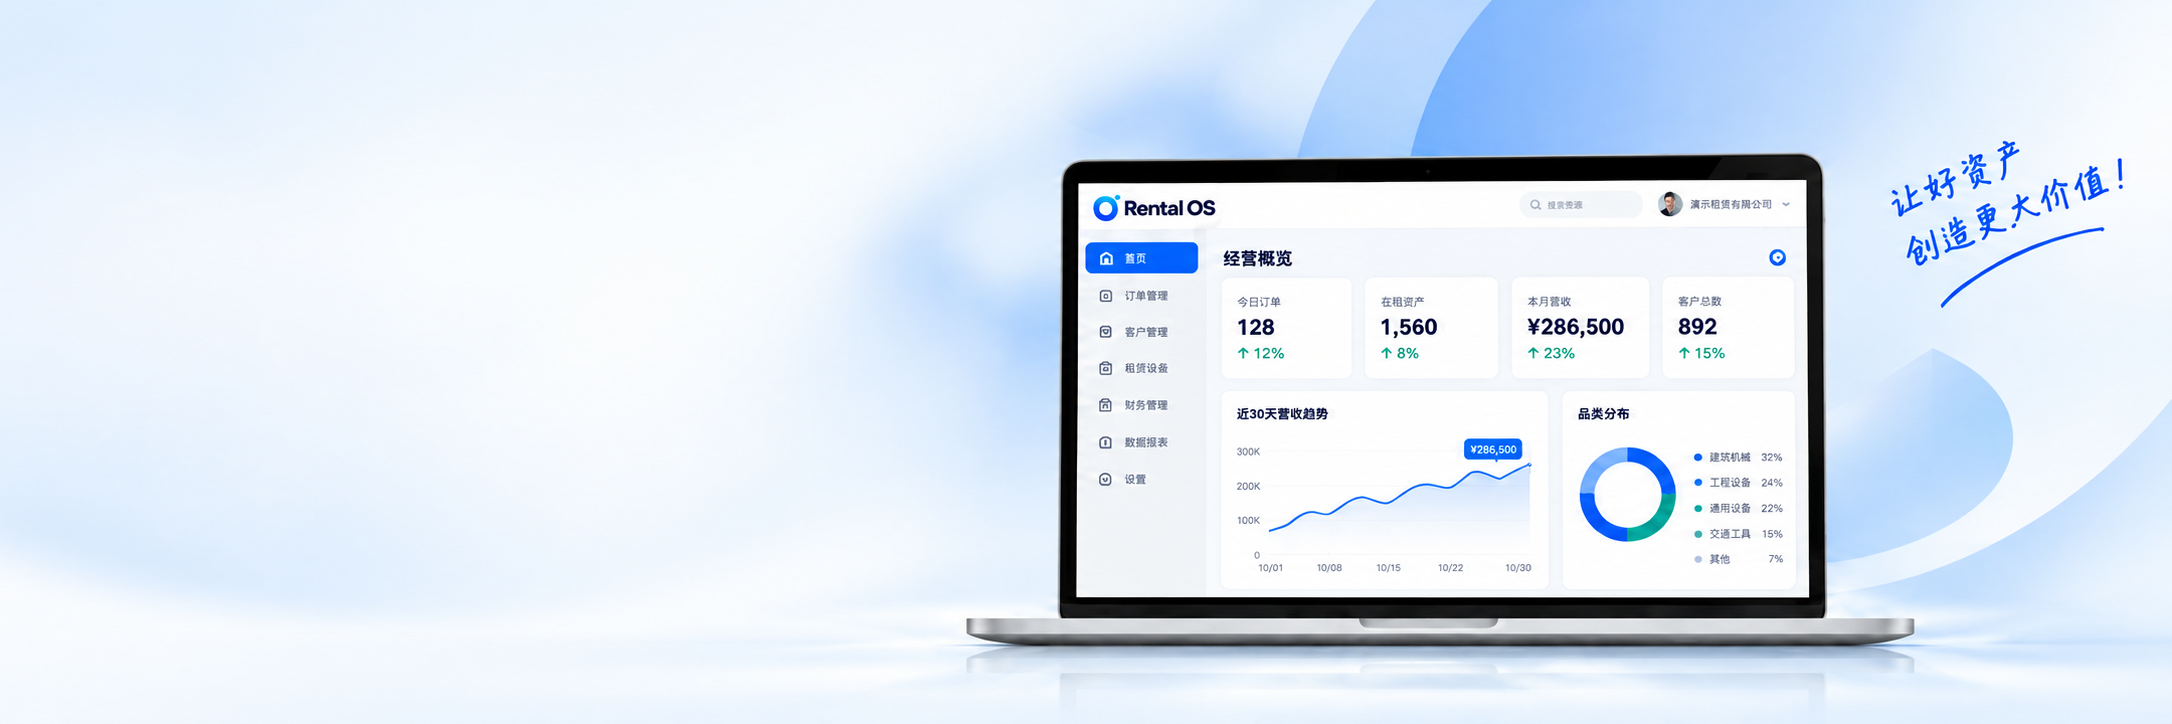
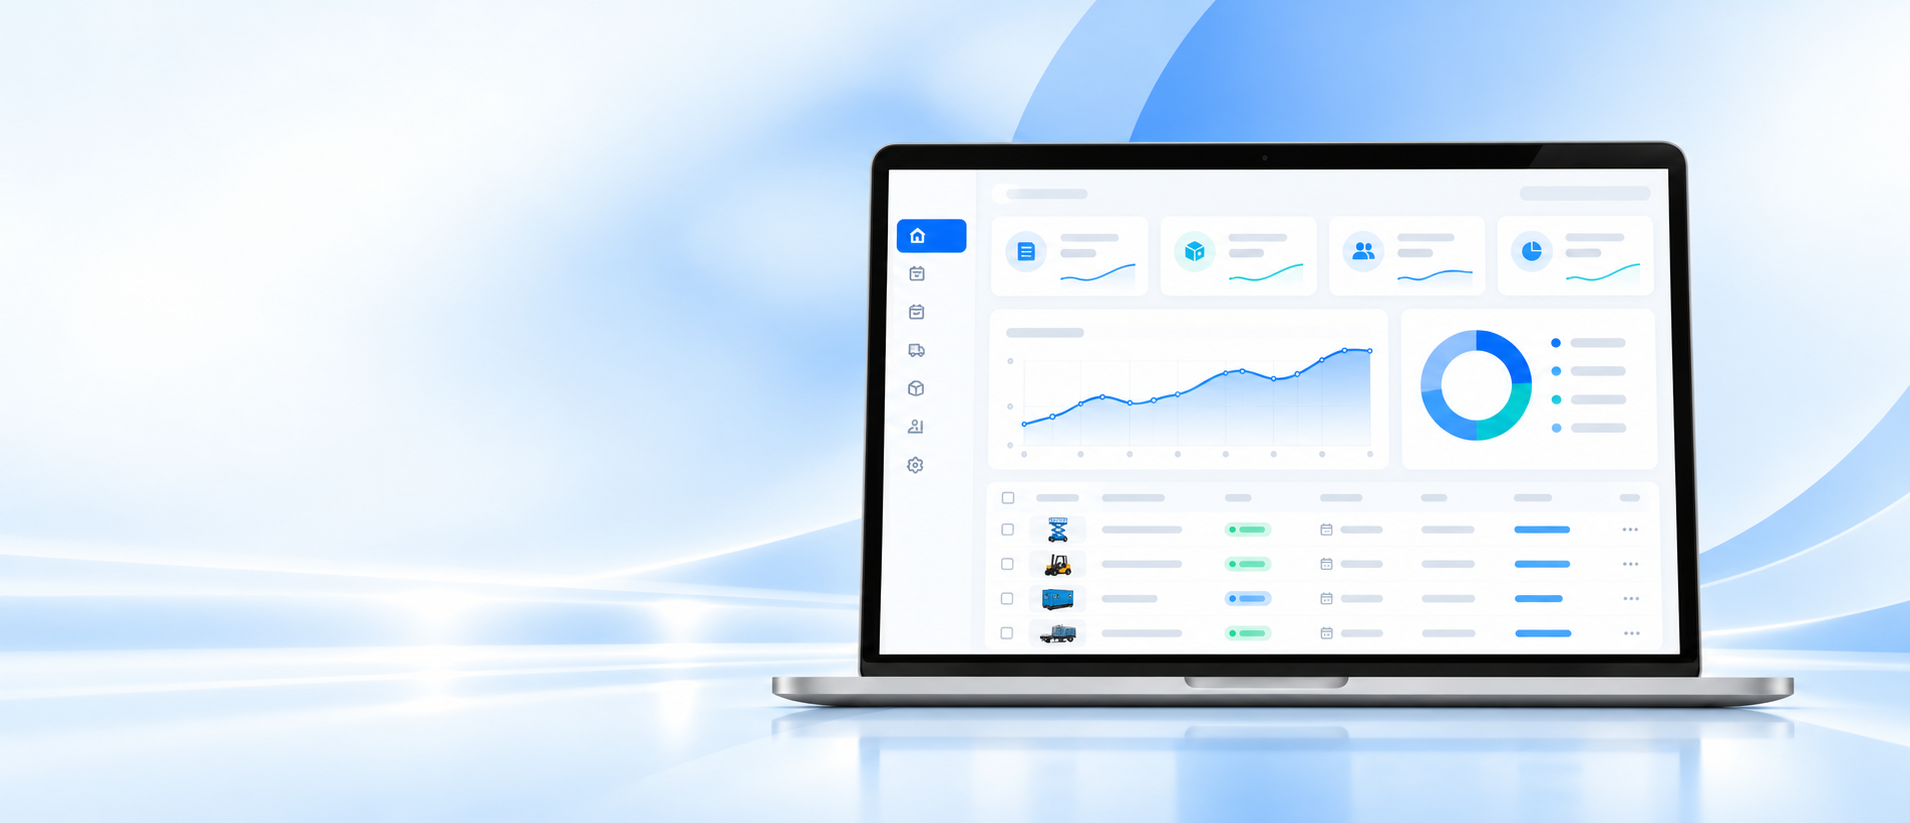
Keep hero artwork at natural scale

diff --git a/index.html b/index.html
@@ -136,10 +136,10 @@ html[data-theme="dark"] .theme-icon svg.theme-icon-moon{display:block}
 .btn-outline{height:38px;background:#fff;color:#0968ef;border:1.5px solid #0a73ff;box-shadow:0 4px 10px rgba(18,96,203,.05)}
 
 /* Hero */
-.hero{position:relative;min-height:clamp(560px,43vw,660px);height:clamp(560px,43vw,660px);background:#eaf4ff;overflow:visible}
+.hero{position:relative;min-height:clamp(560px,43vw,660px);height:clamp(560px,43vw,660px);background:linear-gradient(180deg,#f6fbff 0%,#eef8ff 52%,#e5f3ff 100%);overflow:visible}
 .hero:before,.hero:after{display:none}
 .hero-backgrounds{position:absolute;inset:0;z-index:0;overflow:hidden;pointer-events:none}
-.hero-background{position:absolute;inset:0;background-position:center center;background-size:cover;background-repeat:no-repeat;opacity:0;transition:opacity .65s ease}
+.hero-background{position:absolute;inset:0;background-position:center center;background-size:auto 100%;background-repeat:no-repeat;opacity:0;transition:opacity .65s ease}
 .hero-background.is-active{opacity:1}
 .hero .container{position:relative;z-index:2;height:100%;min-height:100%;padding:64px 0 48px;display:flex;align-items:center}
 .hero-copy{position:relative;z-index:3;width:35%;min-width:350px}
@@ -346,9 +346,9 @@ html[data-theme="dark"] .footer-nav a:hover{color:#75b8ff}
 
 /* responsive */
 @media (min-width:901px) and (max-width:1180px){
-  /* Keep the desktop composition intact while the viewport narrows: the
-     full-bleed artwork scales from its width instead of covering the hero
-     by height and pushing the laptop into the copy column. */
+  /* At narrow desktop widths the artwork must still cover the full stage;
+     the copy column is narrowed at the same breakpoint to keep the two
+     visual regions separate until the mobile layout takes over. */
   .hero-background{background-size:cover;background-position:20% center}
   .nav{gap:clamp(20px,3vw,34px);margin-left:24px;font-size:13px}
   .nav a{white-space:nowrap}
@@ -449,8 +449,8 @@ html[data-theme="dark"] .footer-nav a:hover{color:#75b8ff}
 <section class="hero" data-hero-carousel aria-label="Rental OS 产品展示">
   <div class="hero-backgrounds" aria-hidden="true">
     <div class="hero-background is-active" data-hero-slide style="background-image:url('assets/hero-background.png')"></div>
+    <div class="hero-background" data-hero-slide style="background-image:url('assets/hero-background2.png')"></div>
     <div class="hero-background" data-hero-slide style="background-image:url('assets/hero-background3.png')"></div>
-    <div class="hero-background" data-hero-slide style="background-image:url('assets/hero-background4.png')"></div>
   </div>
   <div class="container">
     <div class="hero-copy">
